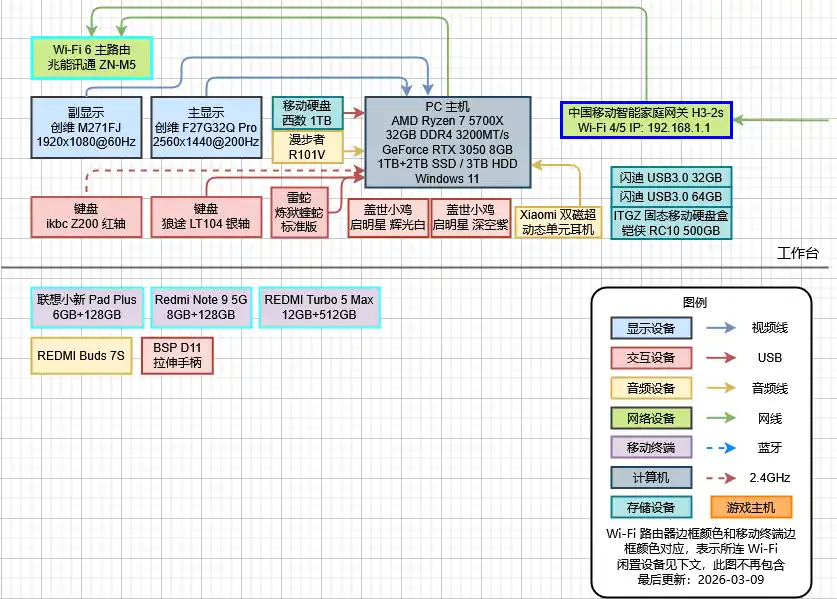
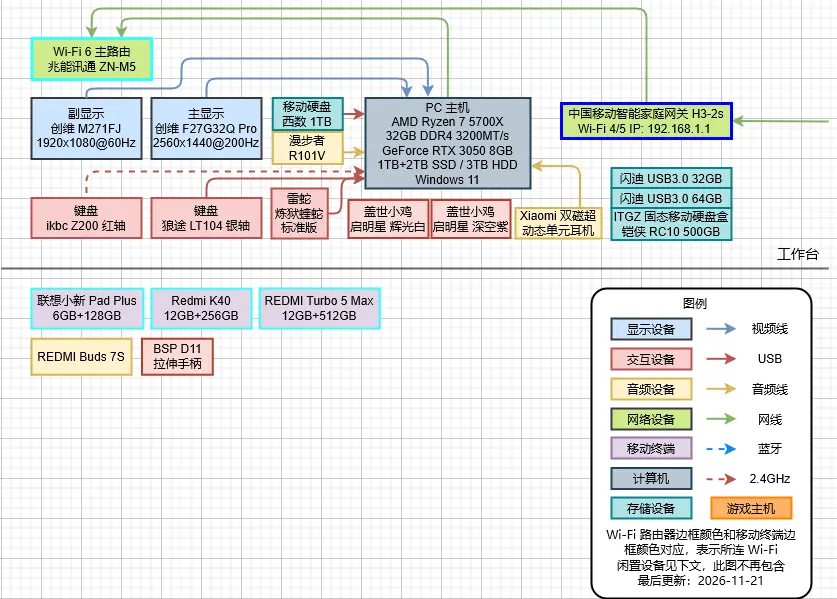
Update

diff --git a/src/content/blog/my-devices.md b/src/content/blog/my-devices.md
@@ -4,7 +4,7 @@ pubDate: '2022-01-27'
 unlisted: true
 ---
 
-- **最后更新**：2026-11-20
+- **最后更新**：2026-11-21
 
 <img src="/img/in-post/device-map.webp" />
 
@@ -105,7 +105,7 @@ unlisted: true
 
 ### Redmi K40
 - **状态**: 备用机
-- **备注**: 更换过电池；屏幕出现绿线
+- **备注**: 更换过电池；屏幕出现绿线；数据接口接触不良
 - **购买时间**: 2021-06-08
 - **SoC**: 高通骁龙 870
 - **GPU**: Adreno 650
@@ -208,7 +208,7 @@ unlisted: true
 - **ROM**: 8GB eMMC
 - **屏幕**: 4.7" LCD (1280x720)
 - **电池**: 2265mAh (典型值)
-- **OS**: Android 10 (LineageOS 17.1)
+- **OS**: Debian GNU/Linux 14 (testing)
 
 ### ~~华为 C8816D~~
 - **状态**: 碎屏，下落不明
